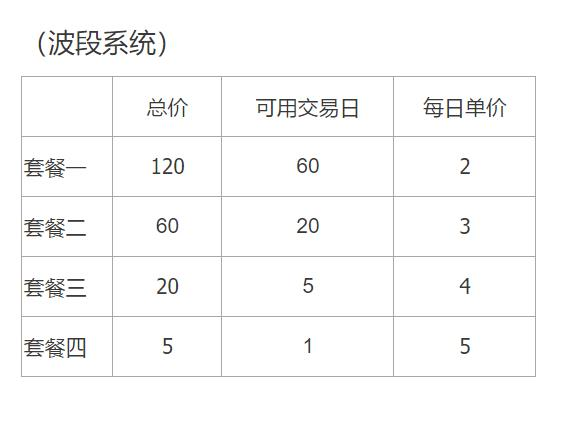
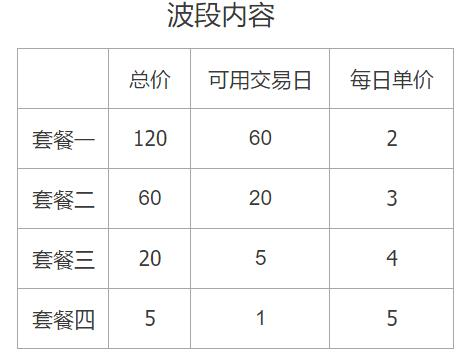
xg

diff --git a/src/routers/Question/index.vue b/src/routers/Question/index.vue
@@ -15,15 +15,15 @@
         <div slot="content">在交易日的14:45左右就会给出当天的仓位建议和操作建议。</div>
       </fold-card>
       <fold-card>
-        <div slot="title">3.如何申请试用？</div>
-        <div slot="content">搜索并添加客服微信号"fund_buy_sell"，向客服提供您注册时的手机号，就能获得10个交易日的试用权限。关注我们的动态，节假日我们也会有赠送使用时间的活动的！</div>
+        <div slot="title">3.如何申请试用波段内容？</div>
+        <div slot="content">搜索并添加客服微信号"fund_buy_sell"，向客服提供您注册时的手机号，就能获得波段内容10个交易日的试用权限。关注我们的动态，节假日我们也会有赠送使用时间的活动的！</div>
       </fold-card>
       <fold-card>
-        <div slot="title">4.试用完如何续期？</div>
+        <div slot="title">4.试用完如何续期波段内容？</div>
         <div slot="content">
           <img src="../../assets/pay.jpg" alt="">
           <div class="l-1">搜索并添加客服微信号"fund_buy_sell"提交续期申请或咨询</div>
-          <p class="l-2">订的越久，每个交易日的单价就越便宜。以套餐一为例，总价是120元，可以用60个交易日，折合每个交易日是2元。60个交易日可以用多久呢？一个月平均是21个交易日，60个交易日相当于3个月，也就是说120元可以用3个月。那贵吗？帮大家算一笔账，假如您持有1支基金1万元，它一天跌了1.2%，那也就是说您亏了120元。但是如果您使用系统后提前躲过了下跌，只要躲过1次，您就少亏了120，您就收回成本了。</p>
+          <p class="l-2">订的越久，每个交易日的单价就越便宜。以套餐一为例，总价是120元，可以用60个交易日，折合每个交易日是2元。60个交易日可以用多久呢？一个月平均是21个交易日，60个交易日相当于3个月，也就是说120元可以用3个月。那贵吗？帮大家算一笔账，假如您持有1支基金1万元，它一天跌了1.2%，那也就是说您亏了120元。但是如果您使用系统后提前躲过了下跌，只要躲过1次，您就能少亏120元，收回成本了。</p>
         </div>
       </fold-card>
       <fold-card>

diff --git a/src/routers/HighBand/index.vue b/src/routers/HighBand/index.vue
@@ -9,6 +9,8 @@
       <div class="main-warn">
         <div class="red-text">越接近收盘，信号越准确，推荐在14:45以后15:00之前根据信号操作</div>
         <div class="purple-text">此为高风偏波段策略，相较于波段策略会更激进，操作前请先评估自己的风险偏好</div>
+        <div class="purple-text">仓位建议：{{positionContent || 0}}%</div>
+        <div class="purple-text">操作建议：{{marketWarn || '未更新'}}</div>
       </div>
       <mt-cell-swipe v-for="(item) in list" :key="item.code" :class="[
       item.detail.buySellHigh[0] === '买'?'buy':item.detail.buySellHigh[0] === '卖'?'sell':'',
@@ -53,7 +55,9 @@ export default {
   data () {
     return {
       watermarkId: '',
-      list: []
+      list: [],
+      positionContent: '',
+      marketWarn: ''
     }
   },
   computed: {
@@ -81,6 +85,12 @@ export default {
             name: name,
             device_id: deviceId,
             type: 'band'
+          })
+          this.$http.get('customer/getBandContent').then((data) => {
+            if (data.success) {
+              this.positionContent = data.data.positionContent
+              this.marketWarn = data.data.marketWarn
+            }
           })
           const list = data.data
           list.sort((a, b) => {

diff --git a/src/routers/GetTest/index.vue b/src/routers/GetTest/index.vue
@@ -8,7 +8,7 @@
     <div class="main-body content">
       <div class="title">搜索并添加客服微信号"fund_buy_sell"</div>
       <div class="title">向客服提供您注册我们系统时使用的手机号</div>
-      <div class="title">就能获得10个交易日的试用权限，就这么简单</div>
+      <div class="title">就能获得波段内容10个交易日的试用权限，就这么简单</div>
       <mt-button type="primary" v-clipboard="'fund_buy_sell'" v-clipboard:success="clipboardSuccessHandler">一键复制微信号</mt-button>
       <img src="../../assets/kefu.jpg" alt="">
       <div class="title">示例</div>

diff --git a/src/routers/Login/index.vue b/src/routers/Login/index.vue
@@ -91,6 +91,14 @@ export default {
       })
     },
     registerHandler () {
+      const phonePattern = /(^(([0\+]\d{2,3}-)?(0\d{2,3})-)(\d{7,8})(-(\d{3,}))?$)|(^(([0\+]\d{2,3})?(0\d{2,3}))(\d{7,8})((\d{3,}))?$)|(^0{0,1}1[3|4|5|6|7|8|9][0-9]{9}$)/
+      if (phonePattern.test(this.name.replace(/\s+/g, '')) === false) {
+        Toast({
+          message: '手机号格式不正确',
+          duration: 2000
+        })
+        return false
+      }
       const info = storageUtil.getDeviceInfo()
       this.$http.post('auth/customerRegister', {
         name: this.name.replace(/\s+/g, ''),

diff --git a/src/tabViews/Mine/index.vue b/src/tabViews/Mine/index.vue
@@ -56,7 +56,7 @@
     </div>
     <div class="btn-wrap">
       <mt-button v-if="userData.name" type="primary" @click="okHandler" class="main-btn">退出登录</mt-button>
-      <mt-button v-else type="primary" @click="toLoginHandler" class="main-btn">去登录</mt-button>
+      <mt-button v-else type="primary" @click="toLoginHandler" class="main-btn">去登录 / 注册</mt-button>
     </div>
   </div>
 </template>

diff --git a/.eslintrc.js b/.eslintrc.js
@@ -26,6 +26,7 @@ module.exports = {
     // allow debugger during development
     'no-debugger': process.env.NODE_ENV === 'production' ? 'error' : 'off',
     'no-undef': 'off',
-    'no-unused-vars': 'off'
+    'no-unused-vars': 'off',
+    'no-useless-escape': 'off'
   }
 }

diff --git a/src/routers/AboutUs/index.vue b/src/routers/AboutUs/index.vue
@@ -15,6 +15,7 @@
 </template>
 
 <script>
+import { Toast } from 'mint-ui'
 export default {
   name: 'AboutUs',
   data () {
